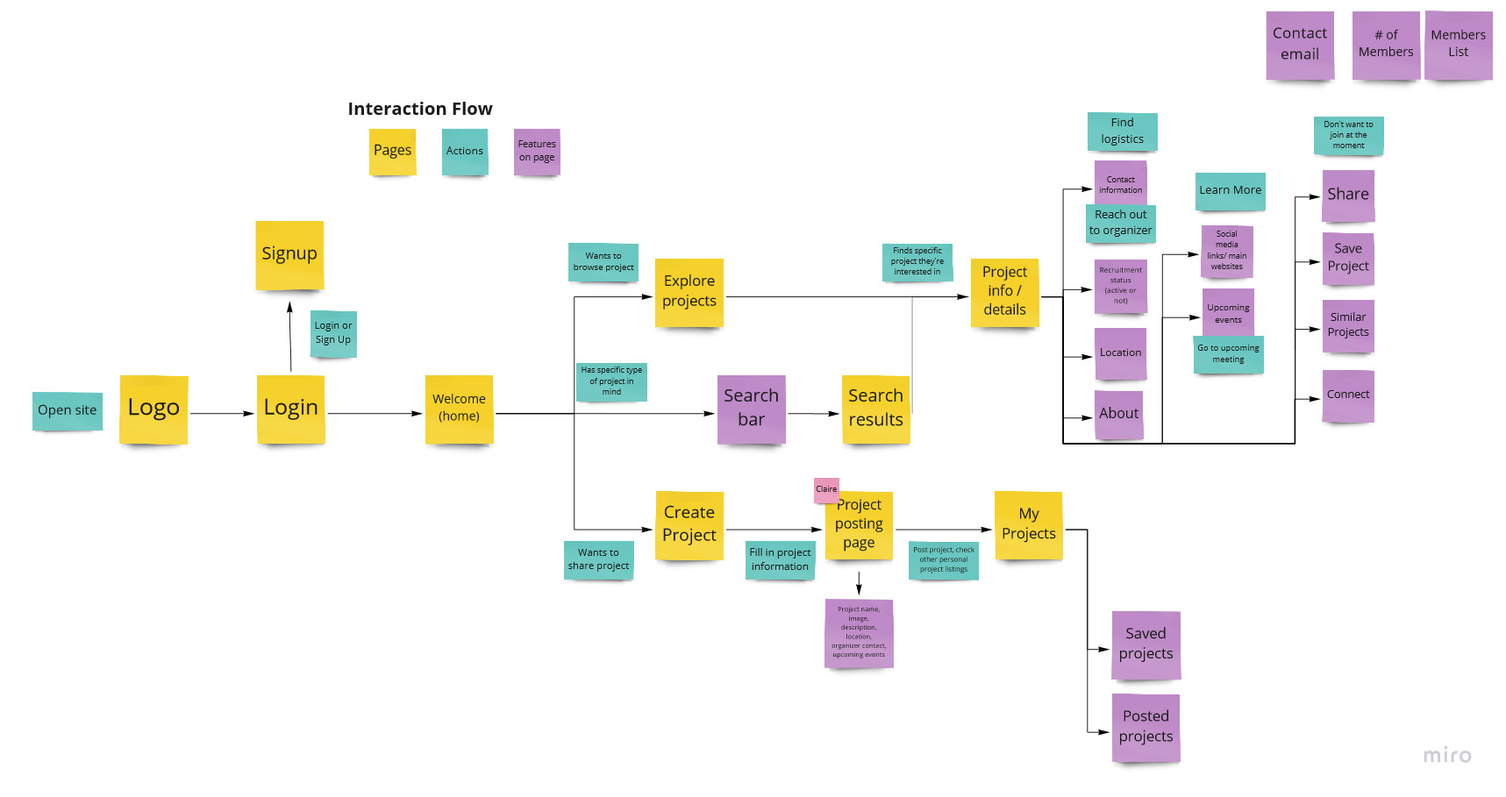
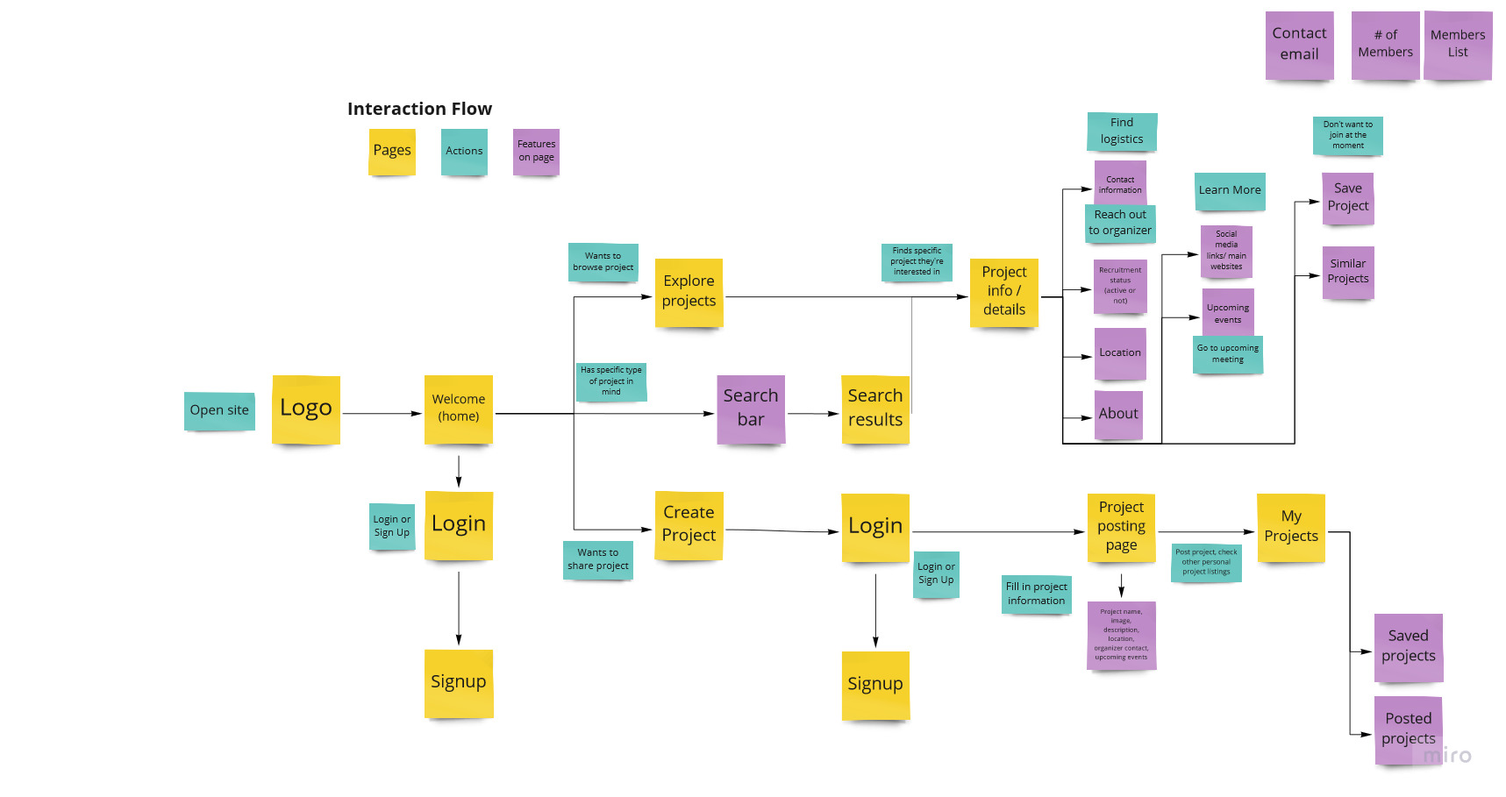
Design Dev

diff --git a/designdev.html b/designdev.html
@@ -51,8 +51,12 @@
     </div>
     <div class="container">
         <div class="paragraph">
+            
+            <div  class="interactionflow">
+                <img src="assets/css/images/BOWlogo.png">
+            </div>
             <div>
-                <h1 class="title">Design Development Report</h1>
+                <h1 class="title">BOW Project Marketplace Design Development Report</h1>
             </div>
             <div>
                 <h2> 
@@ -61,126 +65,255 @@
             </div>
             <div>
                 <p>
-                    The <abbr title="Babson-Olin-Wellesley">BOW</abbr> Project Marketplace is a platform empowering project-seekers and project-creators within the BOW community to connect and strengthen the Babson-Wellesley-Olin nexus. With students from each respective school harboring various interdisciplinary skills and passions, the <abbr title="Babson-Olin-Wellesley">BOW</abbr> Project Marketplace seeks to use collaboration to further on-campus student projects and establish new bonds and friendships between these students.
+                    The BOW Project Marketplace is a platform that empowers project seekers and project creators within the BOW community to connect and strengthen the Babson-Wellesley-Olin nexus. With students from each school specializing in a variety of interdisciplinary skills and passions, the BOW Project Marketplace fosters collaboration between schools to further on-campus student projects and establish new bonds and friendships between students.
                 </p>
+            </div>
+            <div>
+                <h2>
+                    The Problem
+                </h2>
             </div>
             <div>
                 <p>
-                    We decided to go in the direction of designing a platform to share and find projects. Our current design is a low-fidelity Figma prototype where <abbr title="Babson-Olin-Wellesley">BOW</abbr> students can create a post containing project information and browse different projects to see what projects are going on in the <abbr title="Babson-Olin-Wellesley">BOW</abbr> community. 
+                    With our team composed of Olin and Babson students, we relate about the lack of a sense of community between all three schools. 
+                </p>
+                <p>
+                    From interviews with BOW students, we learned that current barriers to BOW projects were lack of time, the required energy to coordinate among schools, and differences in working styles. We also learned that students had a wide range of areas they were interested in. Considering these insights, we decided that our design needed to minimize the required energy to learn about and join projects.
                 </p>
             </div>
             <div>
-                <p>Each project information post contains details such as description, image, contact, organizers, location of meetings, upcoming events, etc. When searching for projects, users can either search for a specific keyword/category or browse general projects and apply filters to results such as category, location, etc.</p>
+                <h2>
+                    Needs Analysis [<a href="https://www.figma.com/file/2FTlt49g2b5nwPM76seMH1/Design-Brief?node-id=2%3A1163">Link</a>]
+                </h2>
+            </div>
+            <div>
+                <h2>
+                    Our user group
+                </h2>
+                <p>
+                    Our target group is undergraduate BOW students who want serious single semester projects where they find dedicated colleagues (Babson persona), fun projects to meet people (Olin persona), or a mix of both at other BOW colleges (Wellesley persona). These BOW students are looking to join a project while they are in college to work on specific skills and explore projects in various areas not limited to engineering or business. 
+                </p>
+            </div>
+            
+            <div>
+                <h2>Design Artifacts</h2>
+                <p>
+                    Based on interviews and an interest level breakdown (Figure 1), we were able to understand our user needs better, creating example personas that can be seen in Figure 2.
+                </p>
+            </div>
+            <div>
+                <img src="assets/css/images/interestlevels.png">
+                <strong>Figure 1: Interest level response breakdown</strong>
+            </div>
+            <div>
+                <img src="assets/css/images/personas.png">
+                <strong>Figure 2: Example personas from our Needs Analysis</strong>
+            </div>
+            <div>
+                <p>
+                    With the aid of our design artifacts and interviews from the Needs Analysis, we decided to create a platform designed for students who feel restricted or intimidated by the currently available methods to collaborate, the activation energy required to look for opportunities, and the ways people communicate across colleges. 
+
+                    <br><br>Our platform will help project leaders provide opportunities for interested students to join their project, whether it is still in the concept phase or if it is an existing team that’s looking to recruit new members and interdisciplinary skills.
+
+                    <br><br>We further narrowed the scope of the projects that we wanted to serve: projects that span a semester or more but do not continue after college. 
+
+                    <br><br>This means we would be serving current BOW students looking for projects or recruiting for their projects, excluding one-time events like workshops or longer-term projects like startups by BOW alums. 
+
+                    <br><br>By narrowing our focus to medium-duration projects within the BOW community, the BOW Project Marketplace will be better able to serve current BOW students looking to collaborate on projects outside of class.
+
+                    <br><br>All in all, we now knew what we’d do with BOW PM: create a platform where BOW students can create a post containing information about their projects and browse different projects active in the BOW community. 
+                </p>
+            </div>
+            <div>
+                <h2>
+                    Iteration Process and Information Architecture
+                </h2>
+            </div>
+            <div>
+                <p>
+                    With the previously mentioned goal in mind for our specific user group, we began thinking of features and high-level concepts that the BOW PM would feature.
+
+                    <br><br>The result of our thinking is best seen through our interaction flow, as seen in figure 3, displaying our information architecture and planned pages for the site.
+
+                </p>
+            </div>
+            <div>
+                <img src="assets/css/images/Interaction Flow.jpg">
+                <strong>Figure 3: Interactive flow chart</strong>
+            </div>
+            <div>
+                <p>
+                    As seen in figure 3, our site’s higher-level concepts include exploring ongoing projects, creating projects, and searching for specific projects. We created an interaction flow that includes specific actions a user would want to take and the corresponding page/feature of our site. This helps us think through how a user might interact with our site and make sure our site provides specific features to allow them to find what they are looking for.
+
+                    <br><br>The reason we came to our higher-level concepts of Explore Project, Search bar, and Create Project was because we learned from our previous phase that there are several different types of students: students who want to join projects in the BOW community, students who don’t have time or don’t want to, and students who want to post and promote their projects. We created those higher-level concepts to meet the needs of each group of students.
+
+                    <br><br>We were originally going to include a social media function but decided not to include because one of the main takeaways from engaging with students is that this platform should be easy and require minimal activation energy to use. We wanted to stick with the basic information about projects, and if students are interested in learning more, they can reach out to the leaders or go to a meeting.
+
+                    <br><br>The Explore Project concept addresses the needs of students that are curious to see different areas of work or students that do not want to join a team but are still interested to see the projects that others are working on. These are students who responded with low interest in our survey question.
+
+                    <br><br>The Search Bar concept meets the needs of students that know the specific type of project or area of interest that they want to join. They do not need to spend extra time scrolling through projects on the explore page and can instead directly see relevant projects to join.
+
+                    <br><br>Both concepts lead to the project description, which contains elements that meet different user needs: users that have specific questions or want to message someone, users that want to learn more, and users that are interested in the project but don’t want to join, most likely because they don’t have the time. For the first group of users, the project description page contains contact information to reach out to the organizing members. For users that want to learn more but in a less intimidating way than directly reaching out to a member of the project, they can find relevant websites and social media links, or even attend an upcoming event. For the last group of users, they can save it and come back to it when they have more time, or find similar projects.
+
+                    <br><br>The Create Projects concept is for users that want to promote their project. They can share basic information such as contact information, the type of work they are doing, and location. They can also promote specific upcoming events such as a competition, community event, exposition, etc.
+
+
+                </p>
+            </div>
+            <div>
+                <h2>
+                    The Design
+                </h2>
+            </div>
+            <div>
+                <p>
+                    After settling on the site’s information design, we began creating low-fidelity models which included different sketches and variations of the same page. This led us to choose some versions over others, which will be discussed in the next section. 
+
+                    <br><br>The end result from building off our sketches and interaction flow model has resulted in the designs visible in the Figma embed and Appendix. 
+                </p>
+            </div>
+            <div>
+                <iframe style="border: 1px solid rgba(0, 0, 0, 0.1);" width="800" height="450" src="https://www.figma.com/embed?embed_host=share&url=https%3A%2F%2Fwww.figma.com%2Fproto%2FxprK6tfydjKMtJfC7WMoQ5%2FBOW-Project-Marketplace-Wireframe%3Fnode-id%3D60%253A236%26scaling%3Dscale-down%26page-id%3D0%253A1%26starting-point-node-id%3D60%253A236" allowfullscreen></iframe>
+                <strong>Figure 4: BOW PM Figma Designs</strong>
+            </div>
+            <div>
+                <h2>Home Page</h2>
+                <p>Our home page (shown in Figure 5) provides a conceptual overview of the site’s purpose and intended use, with emphasis on the “Find a project” button for BOW students looking to join a project and the “Post a project” button for project organizers to share their projects. The “Find a project” button redirects users to the Browse page, where users can filter projects based on interests, and the “Post a project” button redirects to either the sign in or login page if the user is not logged in or directly to the New project form, where they can enter information about their project and post it. This makes the project overview page easily discoverable, the page of interest in this case study.</p>
+            </div>
+            <div>
+                <img src="assets/css/images/Home.png">
+                <strong>Figure 5: Home page</strong>
+            </div>
+            <div>
+                <h2>
+                    Navigation Bar
+                </h2>
+                <p>
+                    The navigation bar, shown in Figure 6, enables the user to navigate to the Home, Browse, or My Projects page from anywhere on the site. The user can also navigate to their profile or the Login or Signup pages by clicking the circle in the right corner (the circle will eventually be replaced with a higher-fidelity representation of a profile picture or a Login/Signup button). The BOW PM logo also takes the user back to the home page.
+                </p>
+            </div>
+            <div>
+                <img src="assets/css/images/header.png">
+                <strong>Figure 6: Navigation bar</strong>
+                <p>
+                    The search bar affords the user the ability to search projects by project names, keywords, etc., which is signified by both the search symbol and the text prompt “Search projects.” Like the links to the Home, Browse, and My Projects page, the search bar is located in the navigation bar so it can be accessed from anywhere on the site for the convenience of the user. Many of our inspirational designs from Phase 1 included search bars in the header, such as LinkedIn, Crunchbase, and Meetup; thus, the positioning of the search bar adheres to Jakob’s law. 
+                </p>
+            </div>
+            <div>
+                <p>We will now explore two case studies, where we will discuss how we came up with the chosen designs for these pages, how we chose these versions over other alternatives, and what key insights we uncovered from this process.</p>
+            </div>
+            <div>
+                <h2>
+                    Case Study: Project Overview Page Design 1
+                </h2>
+            </div>
+            <div>
+                <p>
+                    The Project Overview page shown in Figure 7 displays a summary of a BOW project, including the project name, tags, project type, schools represented, organizers, primary organizer email, external project website, description, upcoming events, recruiting roles, and similar projects. The project poster can also include an image or video, which is meant to visually inform the user of the project’s goals. 
+                </p>
+            </div>
+            
+            <div>
+                <img src="assets/css/images/overview.png">
+                <strong>Figure 7: Project Overview page</strong>
+            </div>
+            <div>
+                <h2>How the page works</h2>
+                <p>
+                    While this page doesn’t have too many affordances, some possible actions include the following: returning to the Browse page by clicking the back arrow and “Browse” button; emailing the primary organizer by clicking on the link next to the mail icon; visiting the project’s external website by clicking the link next to the web icon; sending an email to the primary organizer about a position by clicking the “Contact Organizer” button underneath the role description; scrolling horizontally to see similar projects; viewing any of the recommended similar projects by clicking the “View” button; navigating to the Home, Browse, or My Projects page via the navigation bar; searching projects by project name, keyword, etc. using the search bar. 
+                    <br><br>The main focus of the Project Overview page is to display more information about the project the user clicked on than the preview provided on the Browse page; thus, we have included many signifiers to help users discern what some of the listed information means, as shown in Figure 8. Next to the Project image, information such as the project type, schools represented, list of organizers, contact email, and link to the project’s external website are all paired with icons, many being commonly understood as signifying their respective information type.
+
+                </p>
+            </div>
+            <div>
+                <img src="assets/css/images/signifiers.png">
+                <strong>Figure 8: Signifiers</strong>
+            </div>
+            <div>
+                <p>
+                    This clear and concise summary of information helps address the user’s need of understanding what a certain BOW project is about while enabling the user to communicate with the project organizer and learn more about the project from the external website. 
+                    <br><br>We utilized natural mapping for scrolling down to see more information about the company (on a 1920x1080 screen, you cannot view the entire frame) and to view more similar projects, as shown in Figure 9. 
+                </p>
+            </div>
+            <div>
+                <img src="assets/css/images/recs.png">
+                <strong>Figure 9: Logical Constraints and Natural Mapping</strong>
+            </div>
+            <div>
+                <p>
+                    In order to avoid overloading the user with information, we included logical constraints by not showing additional information like similar groups unless the user scrolls down to the Similar Projects section. This natural correspondence, where moving the scroll bar right or down shows more information in that direction, matches the user’s movement. Because many sites use similar natural and intuitive mapping for scrolling, users are able to apply their intuitive expectations toward our product as well - our design adheres to Jakob’s Law.
+                </p>
+            </div>
+            <div>
+                <h2>Shortcomings of this design</h2>
+            </div>
+            <div>
+                <p>
+                    The lack of affordances compared to similar sites - for example, on AngelList, users can connect to companies through the site, save a list of companies, share a company page, and quite a bit more. In our case, we mainly settled for just providing information about the project, with the means of communication with the project team the primary organizer’s email address. Even though the projects this site is for do not require nearly the amount of affordances that job listing websites do, having some of these features would be helpful. We chose to keep things simple with fewer features because including affordances like AngelList’s would be extremely complicated. 
+                    <br><br>Another shortcoming of this design is how many of the elements look extremely similar, with a generally uninteresting color scheme overall. We plan on improving upon both these shortcomings using feedback from usability testing.
+                </p>
+            </div>
+            <div>
+                <h2>Case Study: Project Overview Page Design 2</h2>
+            </div>
+            <div>
+                <p>
+                    Another team member created the Project Overview page shown in Figure 10, which was heavily inspired by Crunchbase from the Inspirational Designs submission. Much of the same affordances, signifiers, and page structure were included from Crunchbase.
+                </p>
+            </div>
+            <div>
+                <img src="assets/css/images/ex2.png">
+                <strong>Figure 10: Alternative Designs</strong>
+            </div>
+            <div>
+                <p>While this version included more affordances and information as a whole, it was too complex of an interface for our goal of giving users a brief summary of a project. The Crunchbase site that this variation was inspired by (see Figure 11) is meant to display information for large, established companies, meaning much more information is available and useful to the user. This is why they included more constraints, splitting information into three tabs that can only be viewed one at a time.</p>
+            </div>
+            <div>
+                <img src="assets/css/images/ex5.png">
+                <strong>Figure 11: Crunchbase’s Organization Overview page</strong>
+            </div>
+            <div>
+                <p>
+                    For the student projects that we are summarizing, there is no such need for this much information, which is why tabs like “Commitment Levels” or “Recruit” were omitted from the final design, and Project Overview page 1 was chosen instead. 
+                </p>
+            </div>
+            <div>
+                <h2>Key Insights
+                </h2>
+            </div>
+            <div>
+                <p>One of our team’s key insights was that having more affordances does not necessarily result in a better user experience or a more intuitive user interface. In the case study above, we determined that giving the project seeker the amount of information that Crunchbase gives its users about an established company was both overwhelming and impractical. We also realized that requiring the project poster to generate the amount of content that Crunchbase features on their organization overview for an overview of a small-scale project might be overwhelming and discourage the user from posting the project at all. For these reasons, we simplified the interface to only include relevant information for a brief project overview, which avoids overwhelming project posters and project seekers by design.
+                    <br><br>After receiving feedback on our submission for the previous phase, we identified the scope of the projects that we wanted to serve as projects that span a semester or more but do not continue after college. This means we would be serving current BOW students looking for projects or recruiting for their projects. This excludes one-time events like workshops or longer-term projects like startups by BOW alums. By narrowing our focus to medium-duration projects within the BOW community, the BOW Project Marketplace will be better able to serve current BOW students looking to collaborate on projects outside of class. </p>
+                
+            </div>
+            <div>
+                <h2>
+                    Potential Future Changes
+                </h2>
+            </div>
+            <div>
+                <p>We might change the level of detail for project posts. Our current prototype features a save project button, which allows users to save projects that they are interested into a list that they can access later. This feature might provide users with a quick way to save projects they care about; however, it could also go unused and unnecessarily clutter the interface if the number of projects posted to the site is low enough that users are able to quickly access projects by searching or filtering on the browse page.
+                    <br><br>The Members list on the project information page is another area of our interface that we might omit. It is intended to show users browsing projects who are working on a project. This might be useful for users who are looking to work with their friends or acquaintances. On the other hand, many BOW students do not know students from outside their college by name, so it may be a feature that results in more work for people posting projects (as they may feel obligated to enter the names of every member on their team) with very limited benefit.
+                    <br><br>The calendar feature for project events might also be omitted, as we do not intend for the BOW Project Marketplace to be used to frequently update existing project members, but instead to connect project seekers with recruiting projects. However, the calendar feature could be useful for advertising recruiting events that project teams are hosting, which might serve project seekers who are intimidated by messaging a project lead directly.
+                </p>
+            </div>
+            <div>
+                <h2>Appendix</h2>
+                <ol>
+                    <li><a href="https://docs.google.com/document/d/1siDF6ISzLeK2wVpBOG93d1JjRMnvrRqXmT-YxHZas6E/edit">Frames</a>
+                    </li>
+                    <li>
+                        <a href="https://www.figma.com/file/2FTlt49g2b5nwPM76seMH1/Design-Brief?node-id=2%3A1163">Needs Analysis</a>
+                    </li>
+                    <li>
+                        <a href="https://docs.google.com/document/d/1OtQid_Bn13nNoO34PtGa2ECTIc7v0sfjqXvm2S-RPLU/edit">Usability Test Plan</a>
+                    </li>
+                </ol>
             </div>
 
-            <div class="paragraph">
-                <div>
-                    <h2>Our Design</h2>
-                </div>
-                <div>
-                    <iframe style="border: 1px solid rgba(0, 0, 0, 0.1);" width="800" height="450" src="https://www.figma.com/embed?embed_host=share&url=https%3A%2F%2Fwww.figma.com%2Fproto%2FxprK6tfydjKMtJfC7WMoQ5%2FBOW-Project-Marketplace-Wireframe%3Fnode-id%3D60%253A236%26scaling%3Dscale-down%26page-id%3D0%253A1%26starting-point-node-id%3D60%253A236" allowfullscreen></iframe>
-                </div>
-            </div>
-        </div> 
-        <div class="paragraph">
-            <div>
-                <p>
-                    Many of these frames were selected from a collection of other potential designs/sketches; a great example of this is with the Project Summary page, arguably the most important page on the site, and the one that went through multiple iterations.
-                </p>
-            </div>
-            <div> 
-                <p>
-                    First, we will discuss how this design works, how it is or isn’t able to meet user needs, and why we chose this design over the alternatives.
-                </p>
-            </div>
-            <div class="interactionflow">
-                <img src="assets/css/images/ex1.png">
-            </div>
-            <div>
-                <p>
-                    Our home page provides a conceptual model over what this page is for, with the emphasis on the Explore button for project-seekers making project team pages like this discoverable.
-                </p>
-            </div>
-            <div>
-                <p>
-                    This page displays a summary of a <abbr title="Babson-Olin-Wellesley">BOW</abbr> project, including the team name, location, category, members list, email, events, description, and similar groups. This is complemented with either an image or trailer of the project above the about description, where it is up to the project creator to decide. 
-                </p>
-            </div>
-            <div>
-                <p>
-                    While this page doesn’t have too many affordances, some possible actions include returning to the explore page, scrolling to see additional information, and access to the navigation bar. The search bar affords the ability to type in project ideas, themes, types, etc. This is signified by both the search symbol and hint of “Search projects, people, categories here.”
-                </p>
-            </div>
-            <div class="interactionflow">
-                <img src="assets/css/images/searchbar.png">
-            </div>
-            <div>
-                <p>
-                    Within the interaction flow, the search bar was supposed to be an emphasized and prominent feature that users first look towards when getting on the site. One issue with the current search bar is its lack of significance (with the sheer quantity of sites also including search bars, it doesn’t stand out), with no hints about its importance. Thus, part of our conceptual model was not fully conveyed. 
-                </p>
-            </div>
-            <div>
-                <p>
-                    This could be solved by including a tutorial for first-time users, having arrows with descriptions pointing at the site’s features, and asking the user to type a project category/friend within the search bar to find a project. Properly encoding the abilities and significance of the search bar for first-time users will be crucial for their later use of the platform.
-                </p>
-            </div>
-            <div>
-                <p>
-                    The main focus of this page is to display information, thus, we’ve included many signifiers to help users discern what some of the listed information means. Under the project team name, information such as the location, members list, and contact email are all paired with icons, many being culturally understood as signifying their respective information type.
-                </p>
-            </div>
-            <div class="interactionflow">
-                <img src="assets/css/images/ex3.png">
-            </div>
-            <div>
-                <p>
-                    This clear and concise summary of information helps address a user’s need of understanding what a certain <abbr title="Babson-Olin-Wellesley">BOW</abbr> project is about, while also enabling communication between the user and the project team by listing their contact information and event schedule. 
-                </p>
-            </div>
-            <div>
-                <p>
-                    We utilized natural mapping for scrolling down to see more information about the company (on a 1920x1080 screen, you cannot view the entire frame) and for seeming more similar groups. 
-                </p>
-            </div>
-            <div class="interactionflow">
-                <img src="assets/css/images/ex4.png">
-            </div>
-            <div>
-                <p>
-                    We do not want users to experience information overload, thus, we have included logical constraints, not showing additional information like similar groups unless the user scrolls down to it.
-                </p>
-            </div>
-            <div>
-                <p>
-                    This natural correspondence where moving the scroll bar right or down shows more information in that direction, matching the user’s movement. With Jakob’s law, as many sites use similar natural and intuitive mapping for scrolling, users are able to apply their intuitive expectations toward our product as well.
-                </p>
-            </div>
-            <div>
-                <p>
-                    Another team member created the following design, being heavily inspired by Crunchbase from the Inspirational Designs submission. Much of the same affordances, signifiers, and page structure was included from Crunchbase.
-                </p>
-            </div>
-            <div class="interactionflow">
-                <img src="assets/css/images/ex2.png">
-            </div>
-            <div>
-                <p>
-                    While this version included more affordances and information as a whole, for our goal of giving users a brief summary of a project, this was overdoing it. The Crunchbase site that this variation was inspired from is meant to display information for full-on companies, meaning much more information is required. This is why they included more constraints, splitting information into three tabs that can only be viewed one at a time.
-                </p>
-            </div>
-            <div class="interactionflow">
-                <img src="assets/css/images/ex5.png">
-            </div>
-            <div>
-                <p>
-                    For the student projects that we are summarizing, there is no such need for this much information, which is why irrelevant tabs like “Commitment levels” or “Recruit” were created to fill the empty space. 
-                </p>
-            </div>
-            <div>
-                <p>
-                    This was a key insight for the team, that having more affordances does not necessarily mean a better website, and that various user needs require different levels of constraint.
-                </p>
-            </div>
+
+
+            
             
         </div>
     </div>

diff --git a/assets/css/designdev.css b/assets/css/designdev.css
@@ -143,7 +143,7 @@
     padding-top:2%;
 }
 
-.container h1,p,li,h2{
+.container h1,p,li,h2, strong{
     color:black;
     font-family:Arial;
     text-decoration: none;
